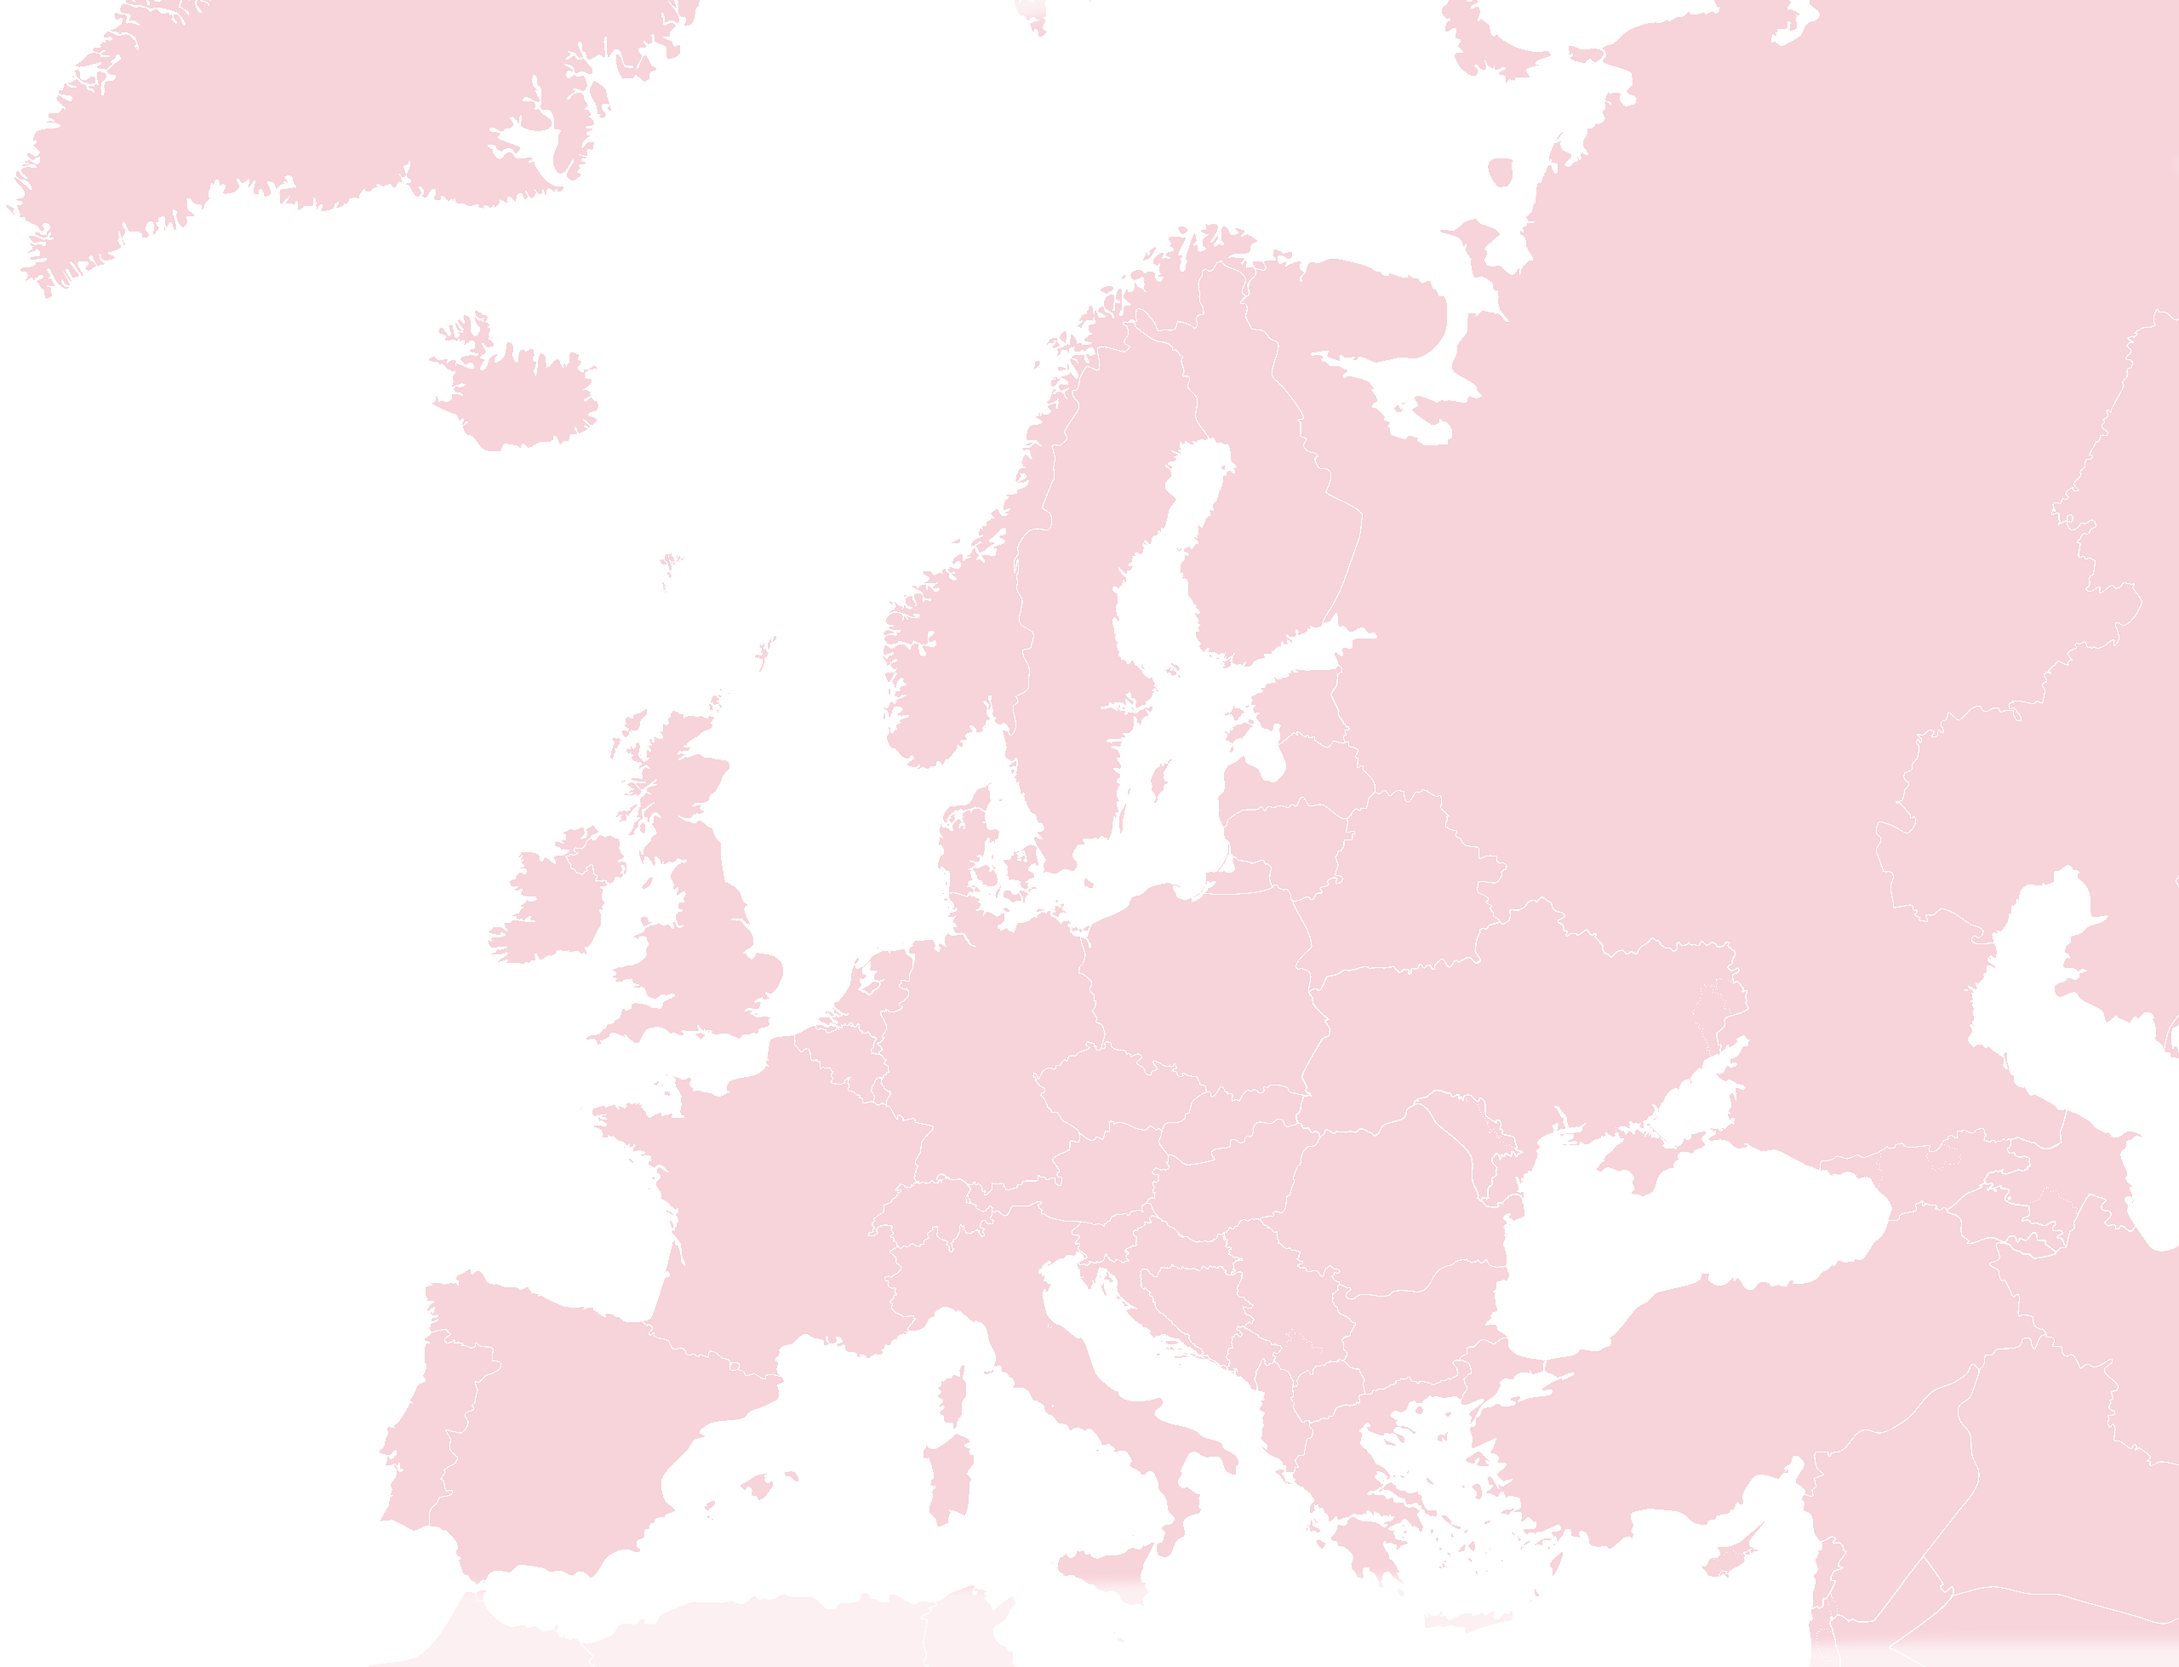
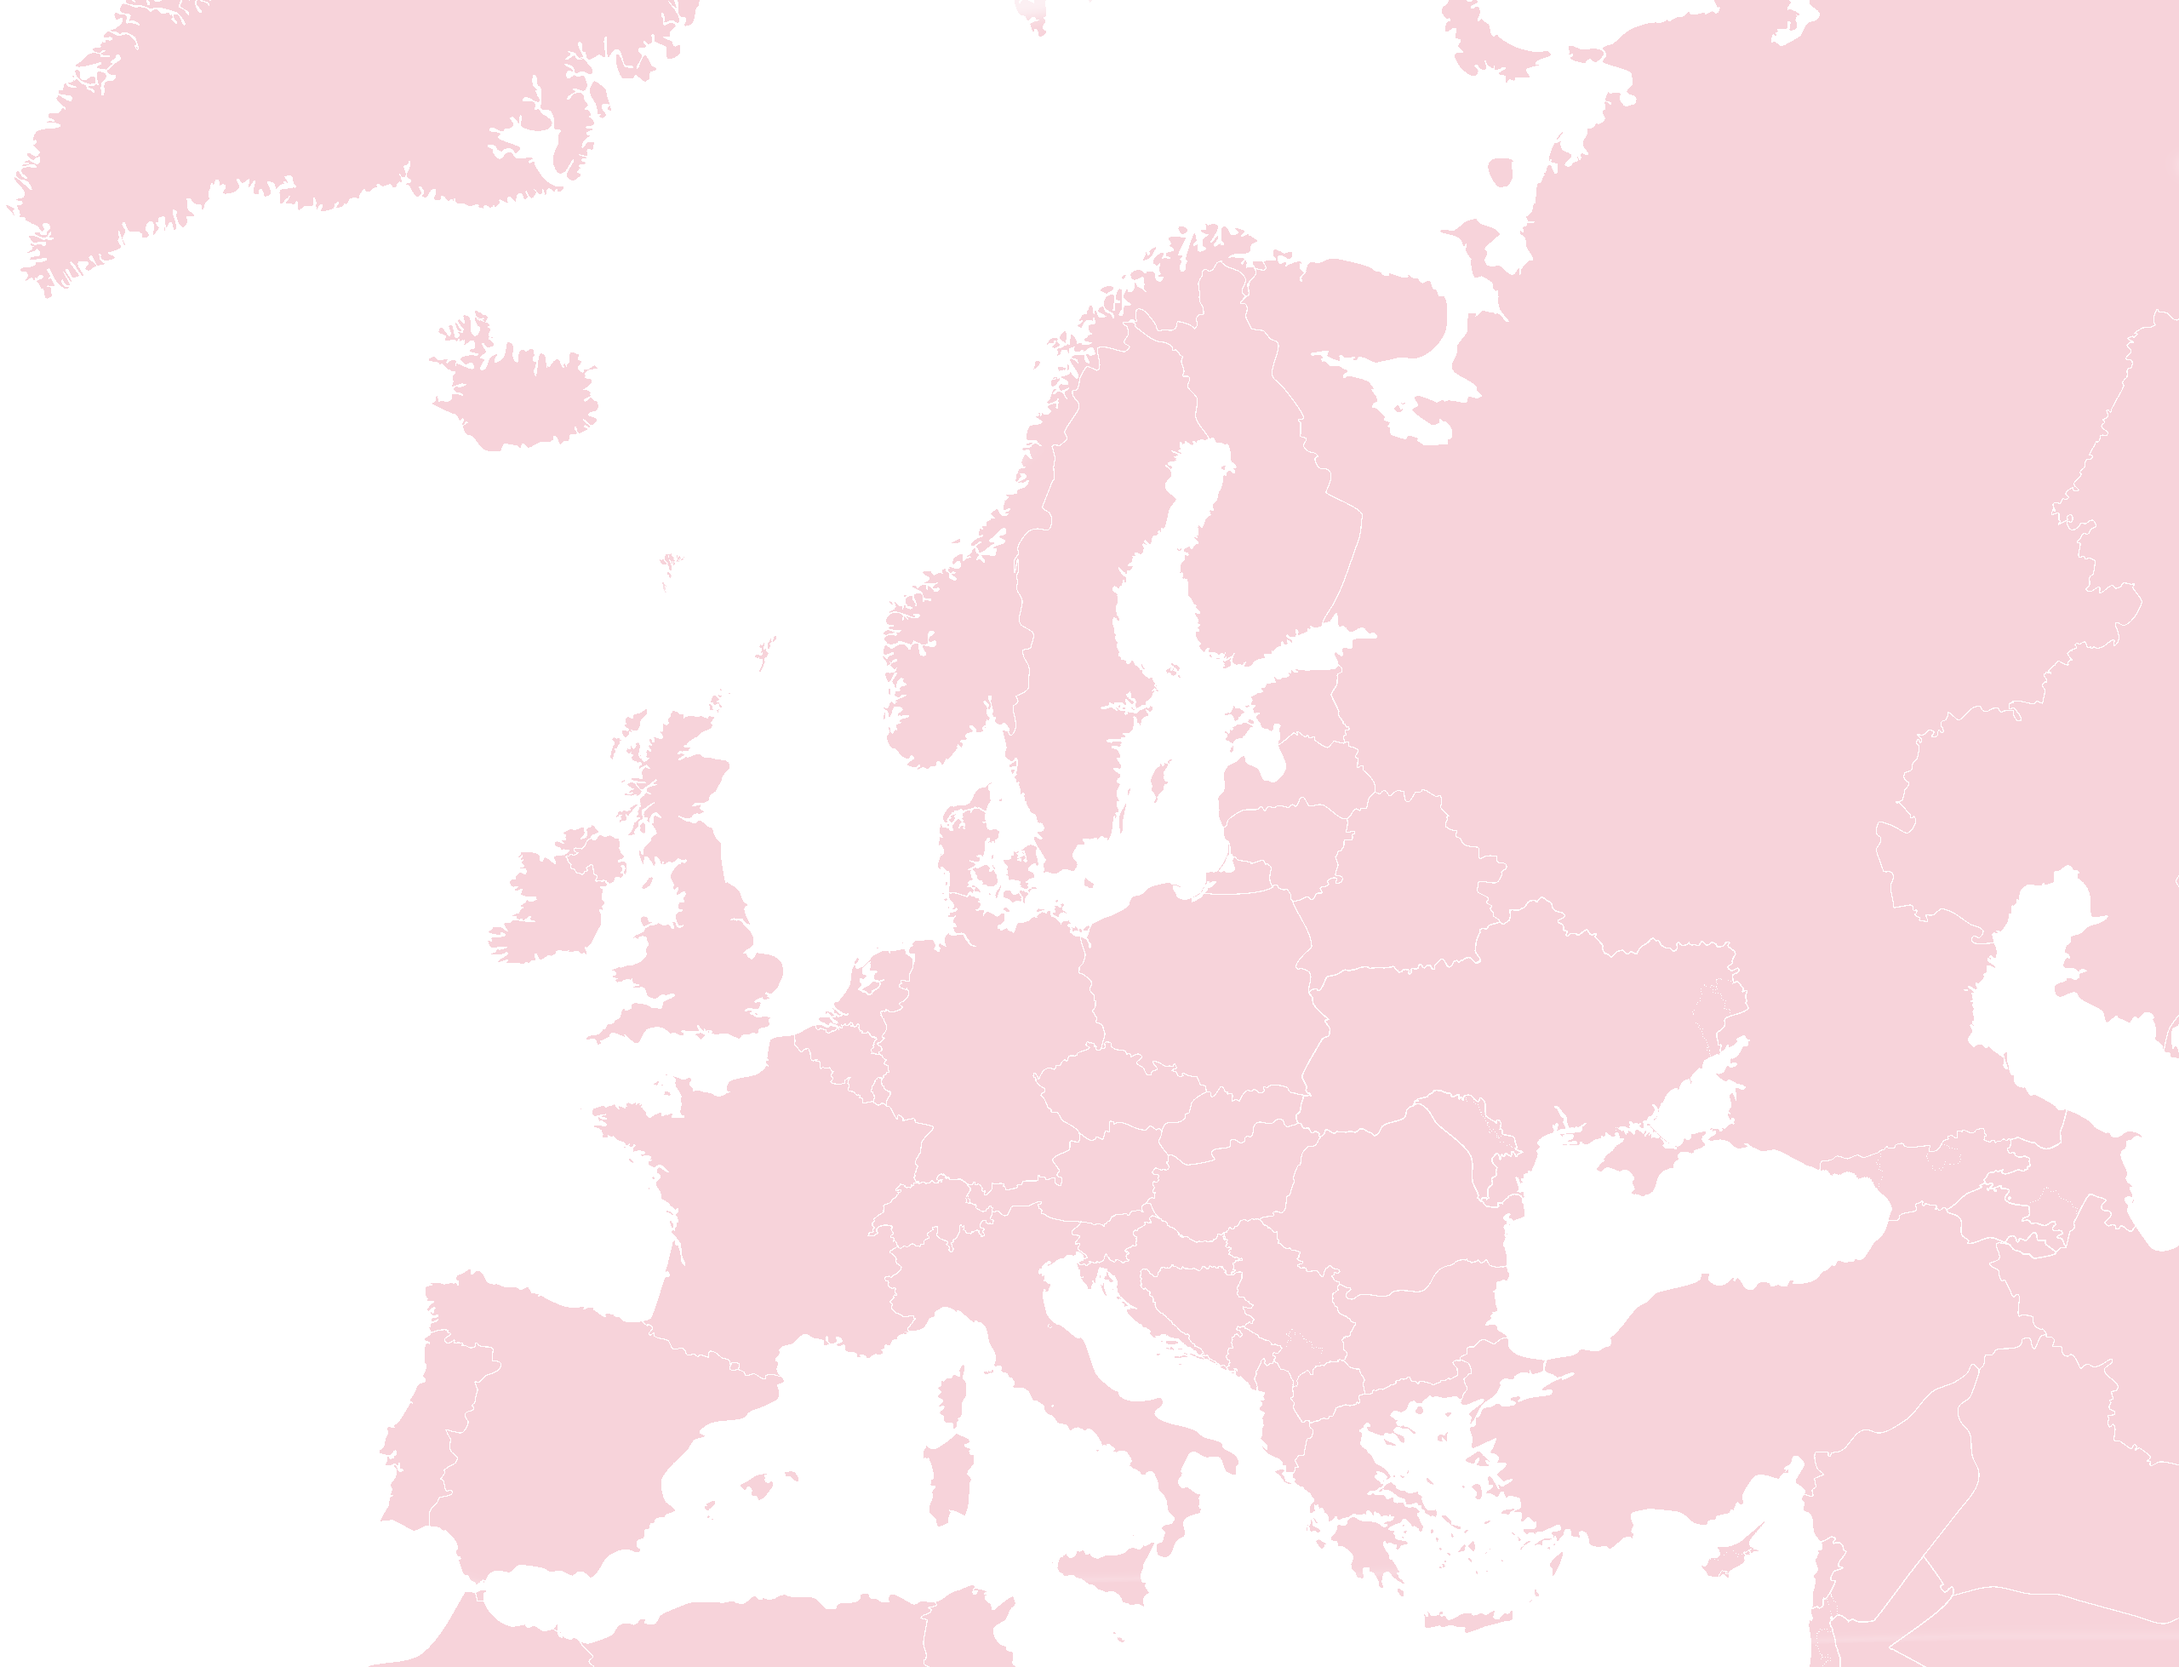
📦 NEW: Dark Theme photos

diff --git a/components/pages/landing_page/IntroductionScreen/IntroductionScreenBase/BackgroundPicture.tsx b/components/pages/landing_page/IntroductionScreen/IntroductionScreenBase/BackgroundPicture.tsx
@@ -1,26 +1,9 @@
 // Tools
-import { keyframes } from "@mui/system";
 import { useState, useEffect } from "react";
 import { styled, alpha } from "@mui/system";
 // Types
 import type { FunctionComponent } from "react";
 // Styled components
-const filterBlurOnHoverStart = keyframes({
-    from: {
-        filter: "blur(10px)",
-    },
-    to: {
-        filter: "blur(0px)",
-    },
-});
-const filterBlurOnHoverEnd = keyframes({
-    from: {
-        filter: "blur(0px)",
-    },
-    to: {
-        filter: "blur(10px)",
-    },
-});
 
 const BackgroundPictureWrapper = styled("div")(({ theme }) => ({
     position: "absolute",
@@ -73,15 +56,15 @@ const BackgroundPictureImage = styled("div")(({ theme }) => ({
     filter: "blur(10px)",
     transition: "transform 1s, background-position 60s linear, filter 2s",
     backgroundPosition: "center top",
-    backgroundImage: "url('./images/landing-page/introduction-screen/fullsize.jpg')",
+    backgroundImage: `url('./images/landing-page/introduction-screen/${theme.palette.mode}/fullsize.jpg')`,
     ["@media (max-width:1450px)"]: {
-        backgroundImage: "url('./images/landing-page/introduction-screen/width1450px.jpg')",
+        backgroundImage: `url('./images/landing-page/introduction-screen/${theme.palette.mode}/width1450px.jpg')`,
     },
     ["@media (max-width:1000px)"]: {
-        backgroundImage: "url('./images/landing-page/introduction-screen/width1000px.jpg')",
+        backgroundImage: `url('./images/landing-page/introduction-screen/${theme.palette.mode}/width1000px.jpg')`,
     },
     ["@media (max-width:750px)"]: {
-        backgroundImage: "url('./images/landing-page/introduction-screen/width750px.jpg')",
+        backgroundImage: `url('./images/landing-page/introduction-screen/${theme.palette.mode}/width750px.jpg')`,
     },
 }));
 

diff --git a/components/pages/landing_page/Contact/Map.tsx b/components/pages/landing_page/Contact/Map.tsx
@@ -14,7 +14,7 @@ const MapBase = styled("span")(({ theme }) => ({
     zIndex: 1,
     right: "0",
     top: 0,
-    backgroundImage: 'url("/images/landing-page/europe_map/light/blank.png")',
+    backgroundImage: `url("/images/landing-page/europe_map/${theme.palette.mode}/blank.png")`,
     backgroundSize: "cover",
     backgroundPosition: "left",
     backgroundRepeat: "no-repeat",
@@ -42,7 +42,7 @@ const MapBase = styled("span")(({ theme }) => ({
         "&.success": {
             transform: "scale(1.6)",
             transition: "background-image .5s .6s linear, width 1.2s, transform .6s",
-            backgroundImage: 'url("/images/landing-page/europe_map/light/success.png")',
+            backgroundImage: `url("/images/landing-page/europe_map/${theme.palette.mode}/success2.png")`,
             "&::after": {
                 backgroundImage: 'url("/images/landing-page/europe_map/poland/success.png")',
             },
@@ -50,7 +50,7 @@ const MapBase = styled("span")(({ theme }) => ({
         "&.error": {
             transform: "scale(1.6)",
             transition: "background-image .5s .6s linear, width 1.2s, transform .6s",
-            backgroundImage: 'url("/images/landing-page/europe_map/light/error.png")',
+            backgroundImage: `url("/images/landing-page/europe_map/${theme.palette.mode}/error.png")`,
             "&::after": {
                 backgroundImage: 'url("/images/landing-page/europe_map/poland/error.png")',
             },

diff --git a/components/atoms/content_placement/SectionWrapper/Dark/index.tsx b/components/atoms/content_placement/SectionWrapper/Dark/index.tsx
@@ -37,10 +37,10 @@ const DarkSectionWrapperBackgroundSVG = styled("span")(({ theme }) => ({
     backgroundPosition: "center ",
     backgroundSize: "cover !important",
     "&.left": {
-        background: "url(/images/components/dark-section-wrapper/left.svg)",
+        background: `url(/images/components/dark-section-wrapper/${theme.palette.mode}/left.svg)`,
     },
     "&.right": {
-        background: "url(/images/components/dark-section-wrapper/right.svg)",
+        background: `url(/images/components/dark-section-wrapper/${theme.palette.mode}/right.svg)`,
     },
 }));
 

diff --git a/components/pages/projects/single/ReleventTechnologies/styled_components/Background.tsx b/components/pages/projects/single/ReleventTechnologies/styled_components/Background.tsx
@@ -7,5 +7,5 @@ export default styled("div")(({ theme }) => ({
     left: 0,
     width: "100%",
     height: "100%",
-    backgroundImage: 'url("/images/single-project/relevent-technologies.svg")',
+    backgroundImage: `url("/images/single-project/relevent-technologies-background/${theme.palette.mode}.svg")`,
 }));
